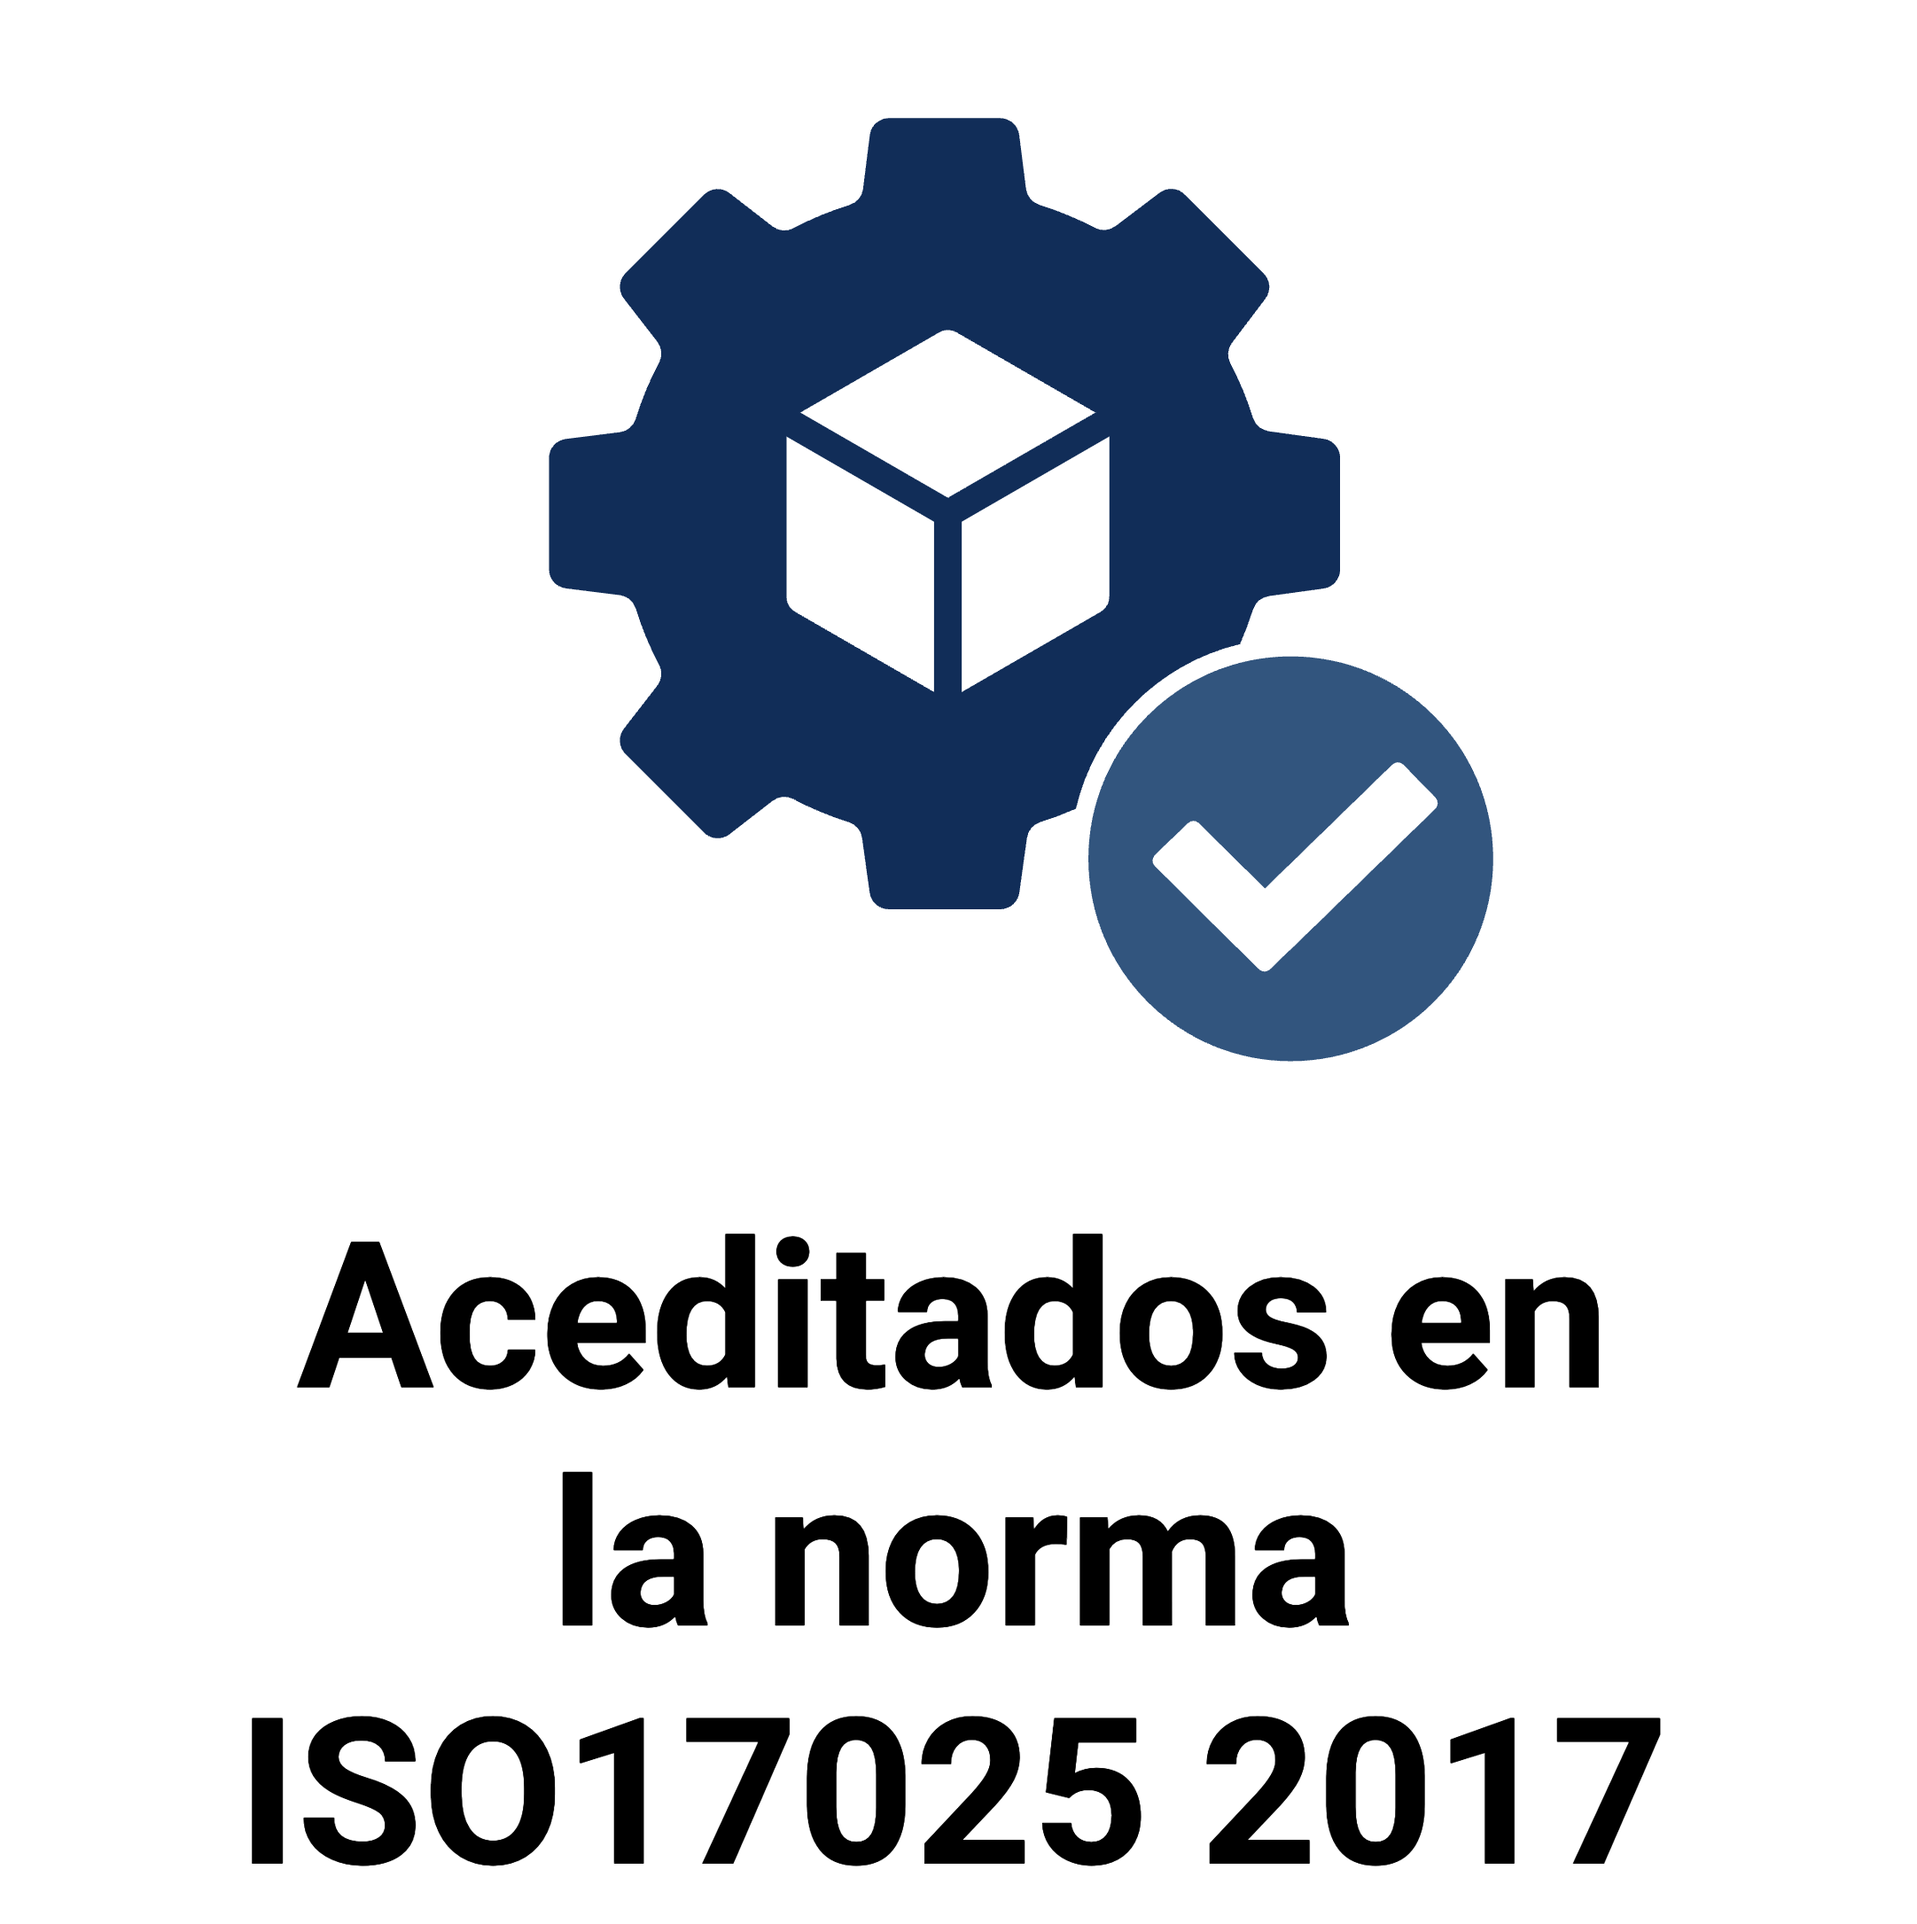
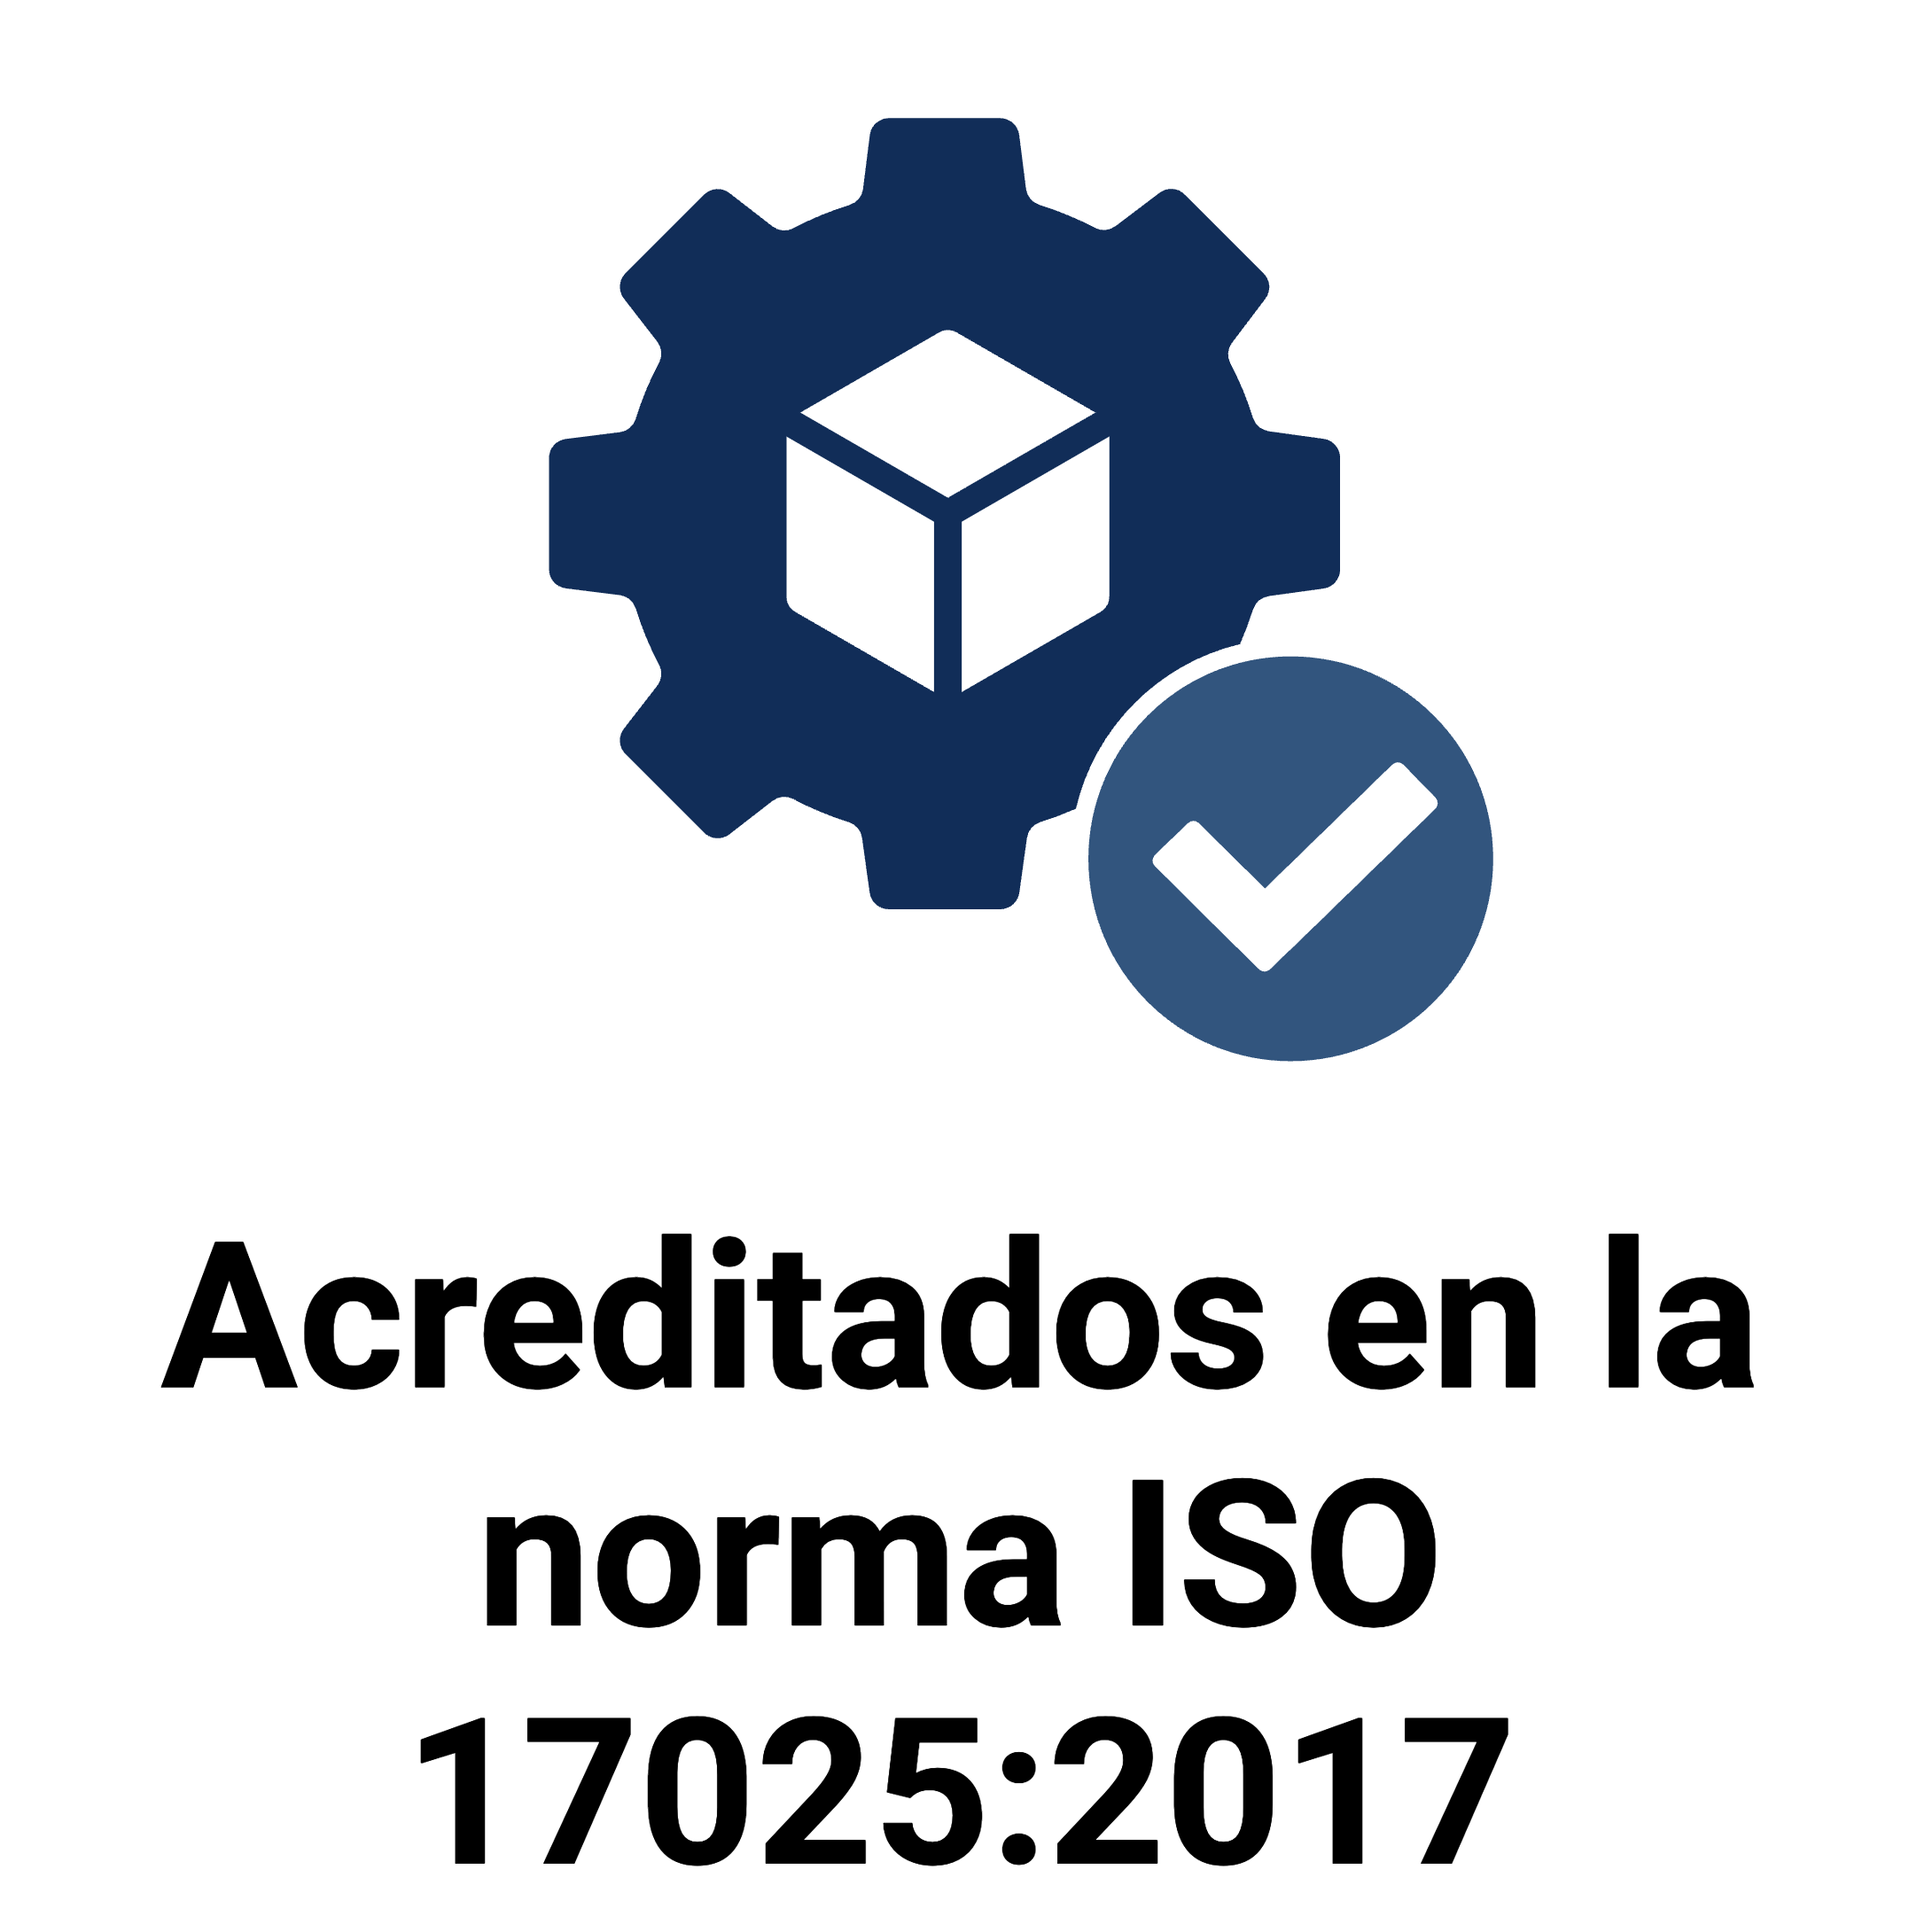
Includes new pictures

Changed region(s): [[0.0929, 0.6172, 0.9293, 0.8641], [0.1239, 0.895, 0.8673, 0.9876]]

diff --git a/index.html b/index.html
@@ -83,7 +83,7 @@
         <div class="main">
             <h3>Certificados y acreditados</h3>
             <p>
-                El LIT es un laboratorio mexicano que cuenta con la certificación en la norma ISO-9001 y acreditación en la norma ISO-17025. Por ello, los servicios que ofrecemos son precisos y confiables
+                El LIT es un laboratorio mexicano que cuenta con la certificación en la norma ISO 9001:2015 (Sistemas de Gestión de Calidad) y acreditación en la norma ISO 17025:2017 (competencia técnica, imparcialidad y operación en laboratorios de ensayo y calibración). Por ello, los servicios que ofrecemos son precisos y confiables
             </p>
         </div>
         <div class="logos-container">
@@ -112,7 +112,7 @@
             </div>
             <div class="card-body">
                 <h5>Cuantificación de anticuerpos neutralizantes</h5>
-                <p>Pruebas para la detección de anticuerpos neutralizantes con técnicas de microneutralización y reducción focos fluorescentes</p>
+                <p>Pruebas para la detección de anticuerpos neutralizantes mediante la reducción focos fluorescentes y daño a la monocapa</p>
                 <a href="#" class="card-link">
                     Consulta a un especialista <i class="fa-solid fa-arrow-right"></i>
                 </a>
@@ -201,6 +201,8 @@
         <div class="facility-slide active" style="background-image: url('./LIT_facility.PNG');"></div>
         <div class="facility-slide" style="background-image: url('./ELISA_324.jpg');"></div>
         <div class="facility-slide" style="background-image: url('./Citometro.jpg');"></div>
+        <div class="facility-slide" style="background-image: url('./Bioplex.JPG');"></div>
+        <div class="facility-slide" style="background-image: url('./ANELS.jpg');"></div>
     </div>
 
     <!-- Máscara con la degradación y difuminado -->

diff --git a/styles.css b/styles.css
@@ -159,7 +159,7 @@
     left: 0;
     width: 100%;
     height: 100%;
-    background-image: url('./lab.webp');
+    background-image: url('./LIT_grupo.jpg');
     background-size: cover;
     background-position: center;
     background-repeat: no-repeat;
